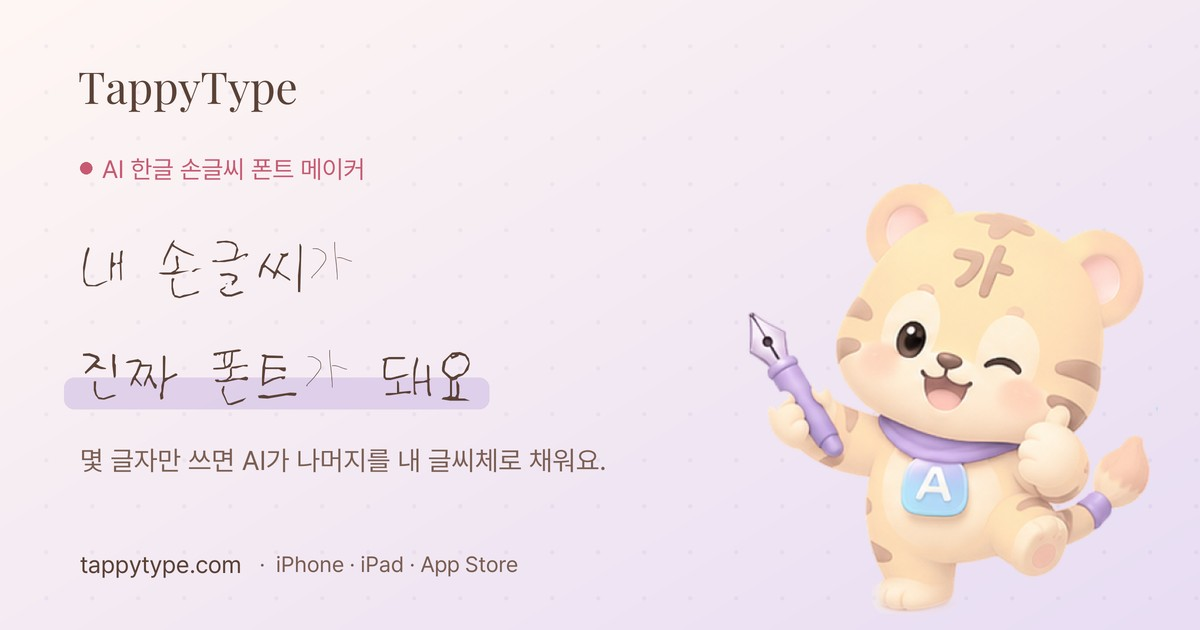
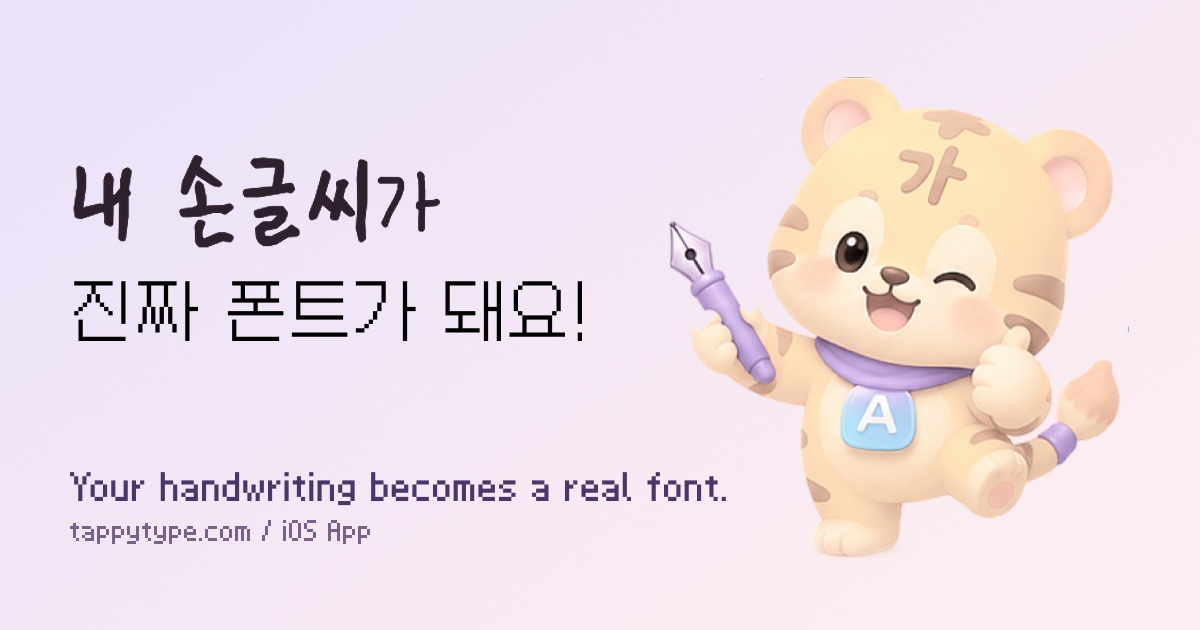
feat: OG 새 디자인(Figma) + 파비콘·Nav 호랑이 앱아이콘 + Instagram sub 가운데
- og-image.jpg 교체(손글씨 hero + 마스코트, Figma 디자인)
- favicon·icon-180 = 앱 아이콘(단순 호랑이 얼굴, 작은 크기에서 또렷)
- Instagram의 .sec-sub margin-inline:auto로 가운데 정렬

diff --git a/src/components/instagram/Instagram/Instagram.css b/src/components/instagram/Instagram/Instagram.css
@@ -1,6 +1,10 @@
 #insta {
   text-align: center;
 }
+/* SectionHeading의 sub(.sec-sub)는 max-width 38rem이라 박스가 왼쪽에 붙는다 → 가운데로. */
+#insta .sec-sub {
+  margin-inline: auto;
+}
 .insta-embed {
   margin-top: 2rem;
 }